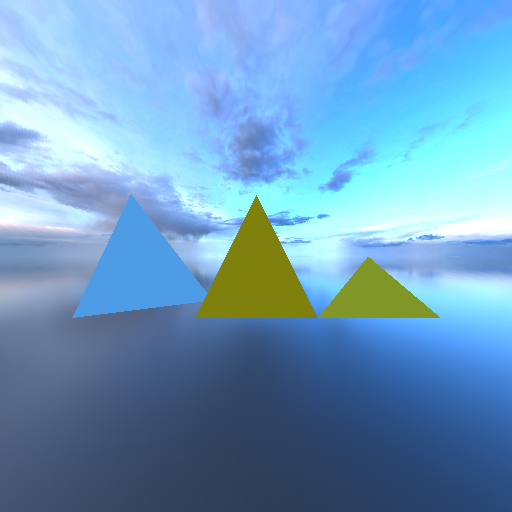
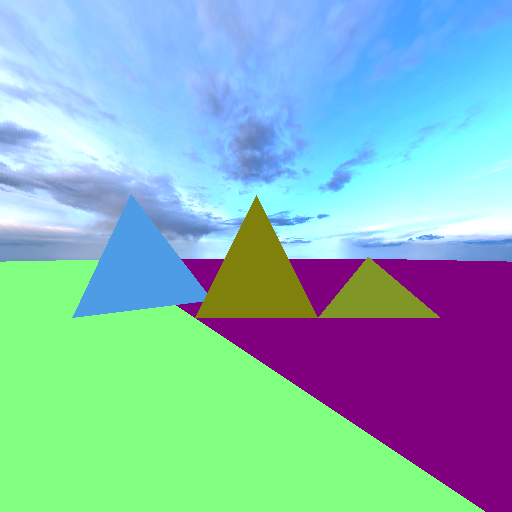
DirectionalLightClass

diff --git a/Program.cs b/Program.cs
@@ -19,11 +19,11 @@ namespace Raytrace
         static int imagewidth = 512;
         static int imageheight = 512;
 
-        
-        
+
+
         static Ray Camera = new Ray(new float3(0, 2, -3), new float3(0, 0, 1));
         static Ray[][] pixelrays;
-        static Triangle[] Scenetris = new Triangle[3];
+        static Triangle[] Scenetris = new Triangle[5];
         static public void Main()
         {
             float frameTime = 0;
@@ -33,7 +33,8 @@ namespace Raytrace
             Scenetris[0] = new Triangle(new float3(2, 0, 2), new float3(-2, 0, 2), new float3(0, 4, 2f));
             Scenetris[1] = new Triangle(new float3(6, 0, 2), new float3(2, 0, 2), new float3(4, 2, 2.5f));
             Scenetris[2] = new Triangle(new float3(-6, 0, 2), new float3(-2, 0, 4), new float3(-4, 4, 1.9f));
-            
+            Scenetris[3] = new Triangle(new float3(100, 0, 100), new float3(-100, 0, 100), new float3(100, 0, -100));
+            Scenetris[4] = new Triangle(new float3(-100, 0, -100), new float3(-100, 0, 100), new float3(100, 0, -100));
 
             //initialize the entire pixelray array.
             pixelrays = MakeCameraRayArray(imagewidth, imageheight, Camera, 0.3f);
@@ -51,9 +52,7 @@ namespace Raytrace
                         if (intersect.x == 0 && intersect.y == 0 && intersect.z == 0 && !isColored)
                         {
                             float3 test = MapRayToSkybox(Ray);
-
-                    
-                            image[i, (int)index] = skybox[(int)(skybox.Width * test.y + skybox.Width*0.5),(int)((skybox.Height * test.x) + (skybox.Height*0.5))];
+                            image[i, (int)index] = skybox[(int)(skybox.Width * test.y + skybox.Width * 0.5), (int)((skybox.Height * test.x) + (skybox.Height * 0.5))];
                         }
                         else
                         {
@@ -75,7 +74,7 @@ namespace Raytrace
 
 
             }
-            System.Console.WriteLine("{0}   {1}",skybox.Width, skybox.Height);
+            System.Console.WriteLine("{0}   {1}", skybox.Width, skybox.Height);
             frameTime = (float)(DateTime.UtcNow - timeStampStart).TotalMilliseconds;
             System.Console.WriteLine(frameTime);
             Console.WriteLine("hey");

diff --git a/RaytracingLib.cs b/RaytracingLib.cs
@@ -79,10 +79,10 @@ namespace Raytrace
 
 
             float t = (-tri.NormalPlane.x * ray.origin.x - tri.NormalPlane.y * ray.origin.y - tri.NormalPlane.z * ray.origin.z - tri.NormalPlane.q) / (tri.NormalPlane.x * ray.direction.x + tri.NormalPlane.y * ray.direction.y + tri.NormalPlane.z * ray.direction.z);
-
+        
             float3 intersect = new float3(ray.origin.x + ray.direction.x * t, ray.origin.y + ray.direction.y * t, ray.origin.z + ray.direction.z * t);
 
-            if (CheckInside(tri, ray, t, intersect))
+            if (CheckInside(tri, ray, t, intersect) && t>0)
             {
 
                 return intersect;
@@ -245,6 +245,22 @@ namespace Raytrace
     }
 
 
+    public class DirectionalLight : RaytracingLib
+    {
+        
 
+        public float3 Direction {get; set;}
+
+        public float Strength {get; set;}
+
+        public DirectionalLight(float3 direction, float strength)
+        {
+            
+            Direction = direction;
+            Strength = strength;
+        }
+
+
+    }
 
 }
